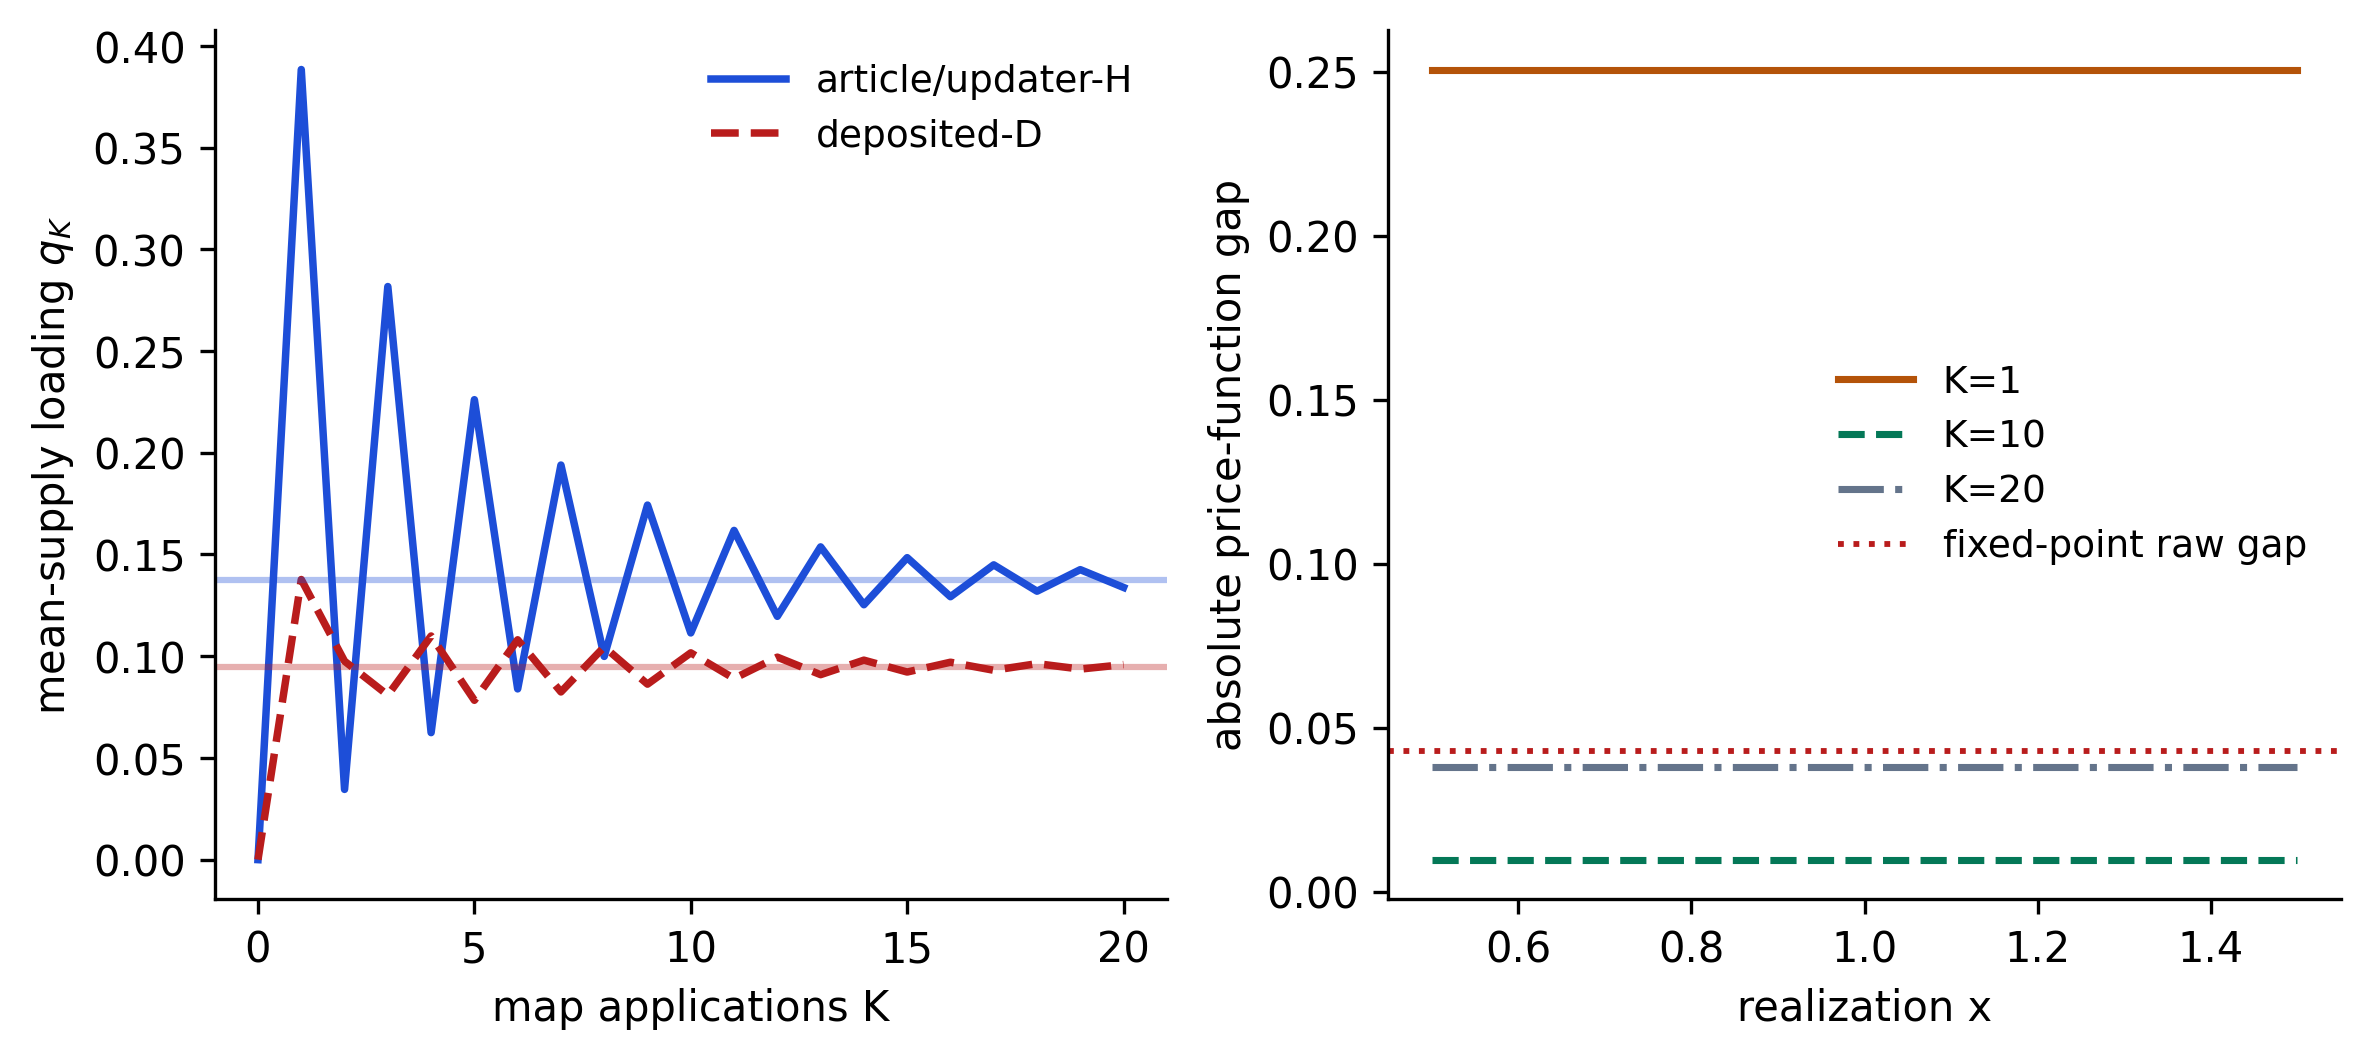
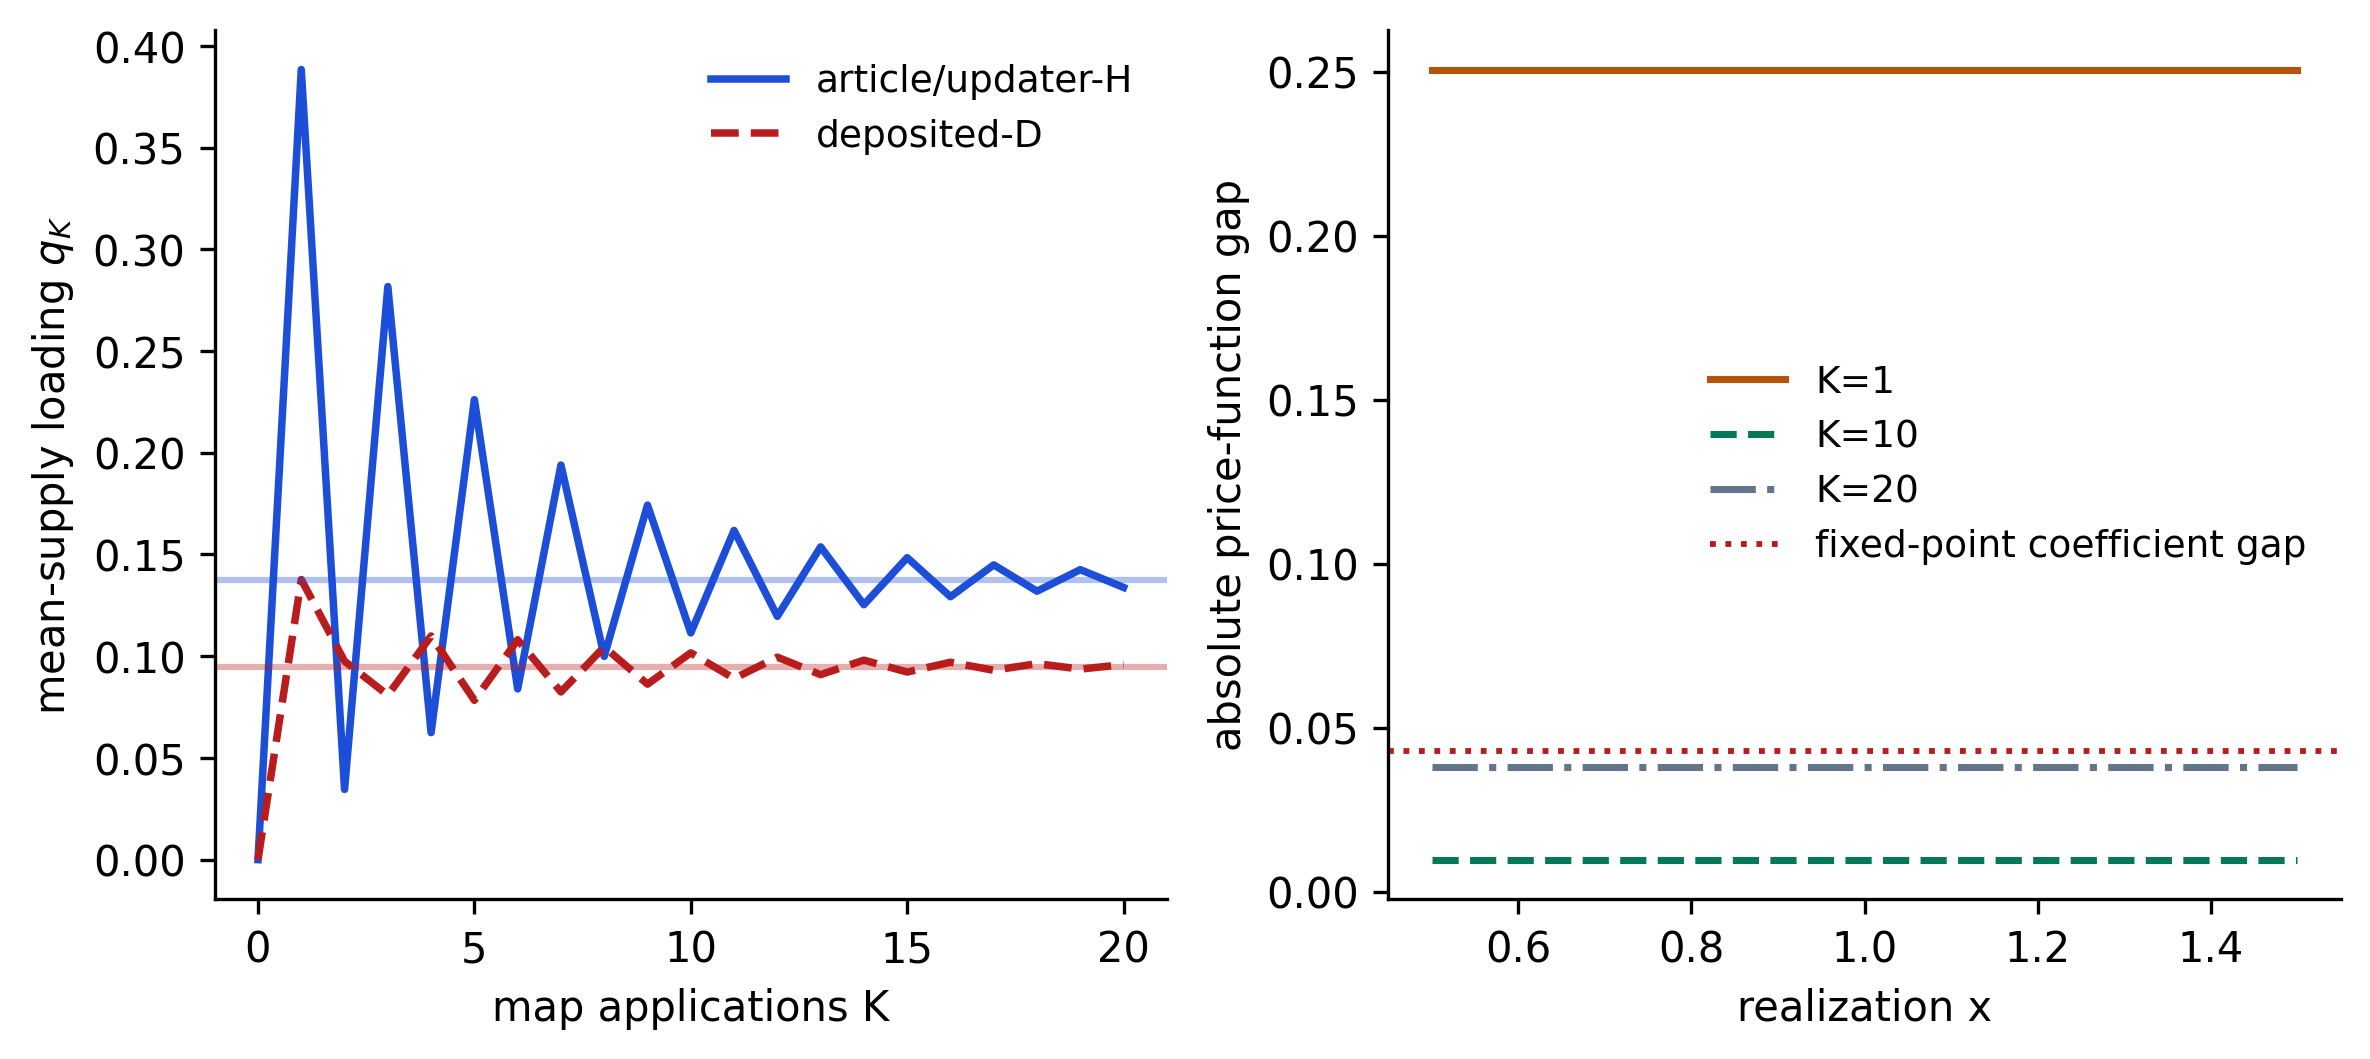
Clarify fixed-point routine mismatch and release v1.0.1

Changed region(s): [[0.7181, 0.4051, 0.8743, 0.4674], [0.7494, 0.4986, 0.9679, 0.5297], [0.7181, 0.3428, 0.843, 0.3739]]

diff --git a/replication/run_analysis.py b/replication/run_analysis.py
@@ -154,7 +154,7 @@ def rel_price(
 ) -> F:
     # Difference and reference are affine in x, so their absolute maxima on
     # the specified interval occur at an endpoint.  This is exactly equivalent
-    # to enumerating all 101 points and avoids needless large-integer work.
+    # to enumerating all 101 points and avoids unnecessary large-integer work.
     grid = [F(1, 2), F(3, 2)]
     num = max(abs(price(v, x) - price(star, x)) for x in grid)
     normalization_star = star if normalization_star is None else normalization_star
@@ -572,7 +572,7 @@ def private_persistent_exact(
         rel_price(v, star, normalization_star) if price_metric else rel_coeff(v, star)
         for v in path
     ]
-    # By K=120 both exact scalar/fiber modes are deep inside every band and
+    # By K=120 both exact scalar/fiber modes are strictly within every band and
     # contract thereafter at the t>1 anchor; scan the exact finite prefix.
     if errors[-1] > F(1, 10**6):
         raise AssertionError("the exact path has not entered the certified tail region")
@@ -933,10 +933,10 @@ def run_starting_value_sensitivity() -> dict[str, Any]:
 
 
 def private_scalar_branch_diagnostics(start_w: F, paper: bool) -> dict[str, Any]:
-    """Boundary and pole diagnostics with exact classification and certified tail bounds.
+    """Classify one scalar start and certify the branch's finite tail.
 
-    The branch starts at its own exact fixed q loading.  Reporting both branches
-    exhausts the q-fiber ambiguity in the scalar-only boundary design.
+    Each branch begins at its own exact fixed q loading. Reporting both branches
+    resolves the q-fiber ambiguity in this scalar-only domain diagnostic.
     """
     t = F(152, 125)
     a, b = F(4, 25), F(8, 25)
@@ -997,7 +997,8 @@ def private_scalar_branch_diagnostics(start_w: F, paper: bool) -> dict[str, Any]
 
     # At K=200 the core is in a small invariant neighborhood.  These exact
     # rational inequalities certify that no later coefficient can leave a band
-    # or exceed the maximum already observed; no K>200 giant fraction is needed.
+    # or exceed the maximum already observed. Exact fractions beyond K=200 do
+    # not need to be constructed.
     w200 = start_w * (-F(1, 1) / t) ** 200
     u = abs(w200)
     assert u < 1 and len(errors) == 201
@@ -1335,7 +1336,7 @@ def run_stability_grid() -> dict[str, Any]:
 
 
 def expected_persistent_partial(a: F, b: F, c: F, h: F, band: F) -> int | str:
-    """Exact suffix-max consistency classifier for the specified K<=1000 rule."""
+    """Recheck the prescribed persistent-band rule through K=1000 exactly."""
     e = h * h + A * A * b * c
     hb = h + A * A * b * c
     p = b * e + a * h * hb

diff --git a/replication/render_assets.py b/replication/render_assets.py
@@ -43,11 +43,24 @@ RED = "#b91c1c"
 GOLD = "#b45309"
 GREEN = "#047857"
 GRAY = "#64748b"
+FIGURE_TITLES = {
+    "Fig1_stability_regions": "Stability regions",
+    "Fig2_finite_iteration_error": "Finite-iteration error",
+    "Fig3_pole_geometry": "Pole geometry",
+    "Fig4_private_map_paths": "Private-map paths",
+}
 
 
 def save(fig, name):
     fig.tight_layout()
-    fig.savefig(FIG / f"{name}.pdf", bbox_inches="tight")
+    fig.savefig(
+        FIG / f"{name}.pdf",
+        bbox_inches="tight",
+        metadata={
+            "Title": FIGURE_TITLES[name],
+            "Subject": "Figure generated for the learning-from-prices analysis",
+        },
+    )
     fig.savefig(FIG / f"{name}.png", bbox_inches="tight")
     plt.close(fig)
 
@@ -226,7 +239,7 @@ def figure4():
         color=RED,
         ls=":",
         lw=1.4,
-        label="fixed-point raw gap",
+        label="fixed-point coefficient gap",
     )
     axs[1].set_xlabel("realization x")
     axs[1].set_ylabel("absolute price-function gap")
@@ -297,7 +310,7 @@ def tables():
                 f"{float(normalized_amplification):.6f}",
             ],
             [
-                "Raw-gap amplification",
+                "Raw coefficient-gap amplification",
                 f"${raw_amplification}$",
                 f"{float(raw_amplification):.6f}",
             ],

diff --git a/replication/verify_reproduction.py b/replication/verify_reproduction.py
@@ -17,7 +17,7 @@ from file_inventory import FIGURE_NAMES, PUBLIC_FILES, RESULT_NAMES, TABLE_NAMES
 
 ROOT = Path(__file__).resolve().parents[1]
 sys.set_int_max_str_digits(0)
-SOURCE_DATE_EPOCH = 1786550400
+SOURCE_DATE_EPOCH = 1786968000
 TEXT_SUFFIXES = {
     "",
     ".bib",
@@ -429,7 +429,6 @@ def check_public_scope() -> dict[str, int]:
         "programming syntax and package use",
         "secondary and adversarial checks",
         "accepts full responsibility",
-        "remains required before submission",
     ):
         if phrase not in normalized_readme:
             raise SystemExit(f"generative-AI disclosure phrase missing: {phrase}")
@@ -439,7 +438,7 @@ def check_public_scope() -> dict[str, int]:
         'given-names: "Mateo"',
         'orcid: "https://orcid.org/0009-0004-5012-835X"',
         'license: "BSD-3-Clause"',
-        'version: "1.0.0"',
+        'version: "1.0.1"',
         'repository-code: "https://github.com/MateoBodon/learning-from-prices-reproduction"',
     ):
         if field not in cff:

diff --git a/replication/build_release.py b/replication/build_release.py
@@ -15,7 +15,7 @@ from file_inventory import ARCHIVE_STEM, RELEASE_MEMBERS, RELEASE_TAG, RELEASE_V
 ROOT = Path(__file__).resolve().parents[1]
 DIST = ROOT / "dist"
 MANIFEST_PATH = ROOT / "RELEASE_MANIFEST.json"
-FIXED_ZIP_TIME = (2026, 8, 12, 12, 0, 0)
+FIXED_ZIP_TIME = (2026, 8, 17, 12, 0, 0)
 
 
 def sha256_bytes(data: bytes) -> str:
@@ -41,7 +41,7 @@ def build_manifest() -> bytes:
         "status": "PASS",
         "version": RELEASE_VERSION,
         "tag": RELEASE_TAG,
-        "release_date": "2026-08-12",
+        "release_date": "2026-08-17",
         "creator": {
             "name": "Mateo Bodon",
             "orcid": "https://orcid.org/0009-0004-5012-835X",

diff --git a/replication/verify_release.py b/replication/verify_release.py
@@ -66,7 +66,7 @@ def main() -> None:
             path = PurePosixPath(info.filename)
             if path.is_absolute() or ".." in path.parts or info.is_dir():
                 raise SystemExit(f"unsafe release ZIP path: {info.filename}")
-            if info.date_time != (2026, 8, 12, 12, 0, 0):
+            if info.date_time != (2026, 8, 17, 12, 0, 0):
                 raise SystemExit(f"non-deterministic ZIP timestamp: {info.filename}")
             relative = info.filename.removeprefix(prefix)
             expected = (

diff --git a/tables/table2_private_identities.tex b/tables/table2_private_identities.tex
@@ -8,6 +8,6 @@ Mean-supply residual & $5000/116781$ & 0.042815 \\
 Fixed gap (fixed-$H$ norm) & $125000/3544233$ & 3.526856\% \\
 First-update gap (time-1 $H$ norm) & $125000/751233$ & 16.639312\% \\
 Normalized amplification & $168773/35773$ & 4.717888 \\
-Raw-gap amplification & $603/103$ & 5.854369 \\
+Raw coefficient-gap amplification & $603/103$ & 5.854369 \\
 \bottomrule
 \end{tabular}

diff --git a/replication/file_inventory.py b/replication/file_inventory.py
@@ -1,6 +1,6 @@
 """Exact file inventory for the public reproduction repository and release."""
 
-RELEASE_VERSION = "1.0.0"
+RELEASE_VERSION = "1.0.1"
 RELEASE_TAG = f"v{RELEASE_VERSION}"
 ARCHIVE_STEM = f"learning-from-prices-reproduction-{RELEASE_TAG}"
 

diff --git a/README.md b/README.md
@@ -1,12 +1,13 @@
 # Learning-from-prices reproduction materials
 
 This repository contains Mateo Bodon's independent reproduction code and
-derived numerical materials for the accompanying manuscript, “Equilibrium
-Consistency and Finite-Iteration Dynamics in Learning from Prices.” The
-manuscript itself is not distributed here.
+derived numerical materials for the accompanying manuscript, “When Finite
+Learning Looks Reliable: Equilibrium Consistency and Iteration Dynamics in
+Learning from Prices.” The manuscript itself is not distributed here.
 
-The code checks equilibrium identities, compares two denominator conventions,
-derives the reduced private-map recurrence, and reproduces the finite-horizon,
+The code checks equilibrium identities, compares the article/updater residual
+with the distinct residual encoded in one deposited fixed-point routine, and
+evaluates the reduced private-map recurrence. It regenerates the finite-horizon,
 stability, boundary, and price-gap results reported in the manuscript. Exact
 rational arithmetic determines identities and classifications; floating-point
 values are used only for display where the result records say so.
@@ -23,7 +24,8 @@ checks from one retained source execution are isolated in
 Two distinctions are important:
 
 - `168773/35773` is the ratio of the two horizon-specific normalized price
-  gaps. `603/103` is the separate ratio of the raw coefficient gaps.
+  gaps. `603/103` is the separate ratio of the unnormalized constant-coefficient
+  gaps.
 - The 1,833 unstable paths in the 8,100-cell census approach a
   branch-dependent singular boundary. That boundary is not a fixed point,
   equilibrium, attractor, or selected economic outcome.
@@ -73,11 +75,10 @@ literature review, for assistance with programming syntax and package use
 during code development, and for secondary and adversarial checks of
 mathematical derivations, code, and reproducibility materials. Mateo Bodon
 determined the research questions, methods, mathematical arguments,
-implementation, interpretation, and final wording; independently reviewed the
+implementation, interpretation, and wording; independently reviewed the
 cited sources and every reported equation, result, figure, table, code file,
-and statement; and accepts full responsibility for the work. A final personal
-reading and analysis of the exact manuscript submission files remains required
-before submission.
+and statement in the prepared public materials; and accepts full responsibility
+for the work.
 
 ## Citation and license
 

diff --git a/PROVENANCE.md b/PROVENANCE.md
@@ -24,8 +24,8 @@ from one unmodified MATLAB R2023b Update 11 execution. That execution returned
 normally and created 11 MATLAB figure objects. Agreement is reported only for
 MATLAB objects 10 and 11, corresponding to the deposited online-appendix
 Figure 6 and Figure 8 routines, and for the deposited-denominator coefficient
-vector. MATLAB objects 1–9 were not independently reconstructed. Seven bounded
-solver calls printed non-success diagnostics. The retained execution is not
+vector. MATLAB objects 1–9 were not independently reconstructed. Seven
+nonlinear solves printed non-success diagnostics. The retained execution is not
 repeated by this repository, and no displayed figure or economic conclusion is
 claimed to change because the discrepant fixed-point output is assigned but
 not subsequently read by the plotting driver.

diff --git a/docs/FIGURE_DESCRIPTIONS.md b/docs/FIGURE_DESCRIPTIONS.md
@@ -27,7 +27,8 @@ styles.
 ## Figure 4: Private-map paths
 
 The left panel compares the mean-supply loading over 20 map applications under
-the article/updater-H and deposited-D denominator conventions. Horizontal
+the article/updater-H residual and the distinct deposited fixed-point-routine
+residual. Horizontal
 lines show their distinct fixed loadings. The right panel shows the absolute
 price-function gap over realizations from 0.5 to 1.5 at iterations 1, 10, and
-20, together with the fixed-point raw gap.
+20, together with the fixed-point constant-coefficient gap.

diff --git a/RESULTS.md b/RESULTS.md
@@ -10,7 +10,7 @@ The clean build verifies the following exact or certified quantities:
 - Original normalized fixed-point price gap: `125000/3544233`.
 - Original normalized first-update price gap: `125000/751233`.
 - Ratio of those normalized gaps: `168773/35773`.
-- Separate raw-gap ratio: `603/103`.
+- Separate unnormalized constant-coefficient-gap ratio: `603/103`.
 - Deposited 100-point variance sweep: 61 stable and 39 unstable cases.
 - Prespecified 8,100-cell variance grid: 6,267 stable and 1,833 unstable
   cases, with no boundary cells.
